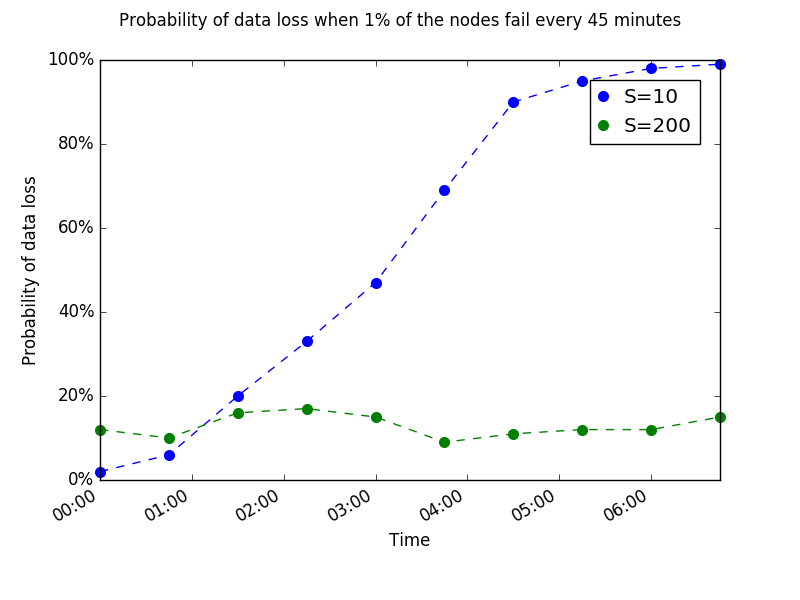
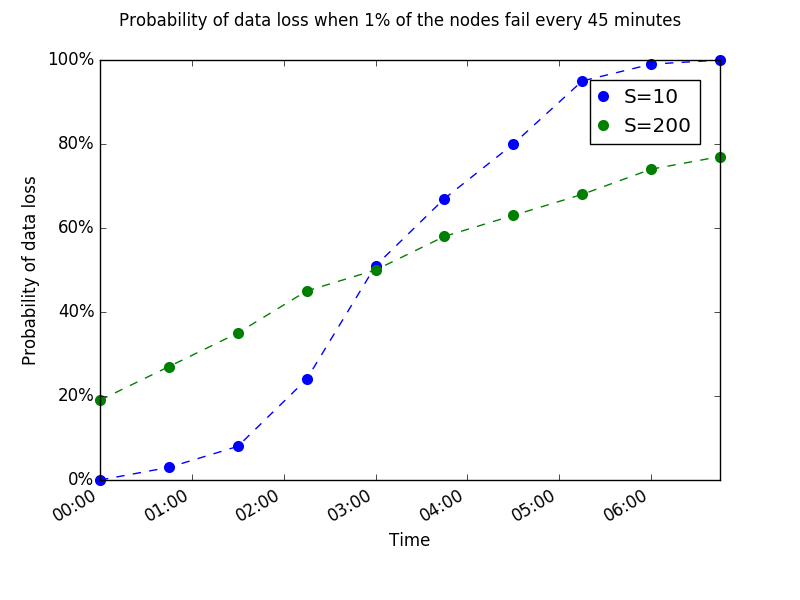
Regathered data with data loss compounding

diff --git a/RepeatedFailures.py b/RepeatedFailures.py
@@ -77,8 +77,8 @@ class Runner(object):
    def failureProbOfDataLoss(self):
       # if lost data in previous failure, we are considered as having
       # lost data in this failure as well
-      # if self.lostData:
-      #    return 1.0
+      if self.lostData:
+         return 1.0
 
       # fail 1% of the nodes (remove from live, add to failed)
       newFailedNodes = set(
